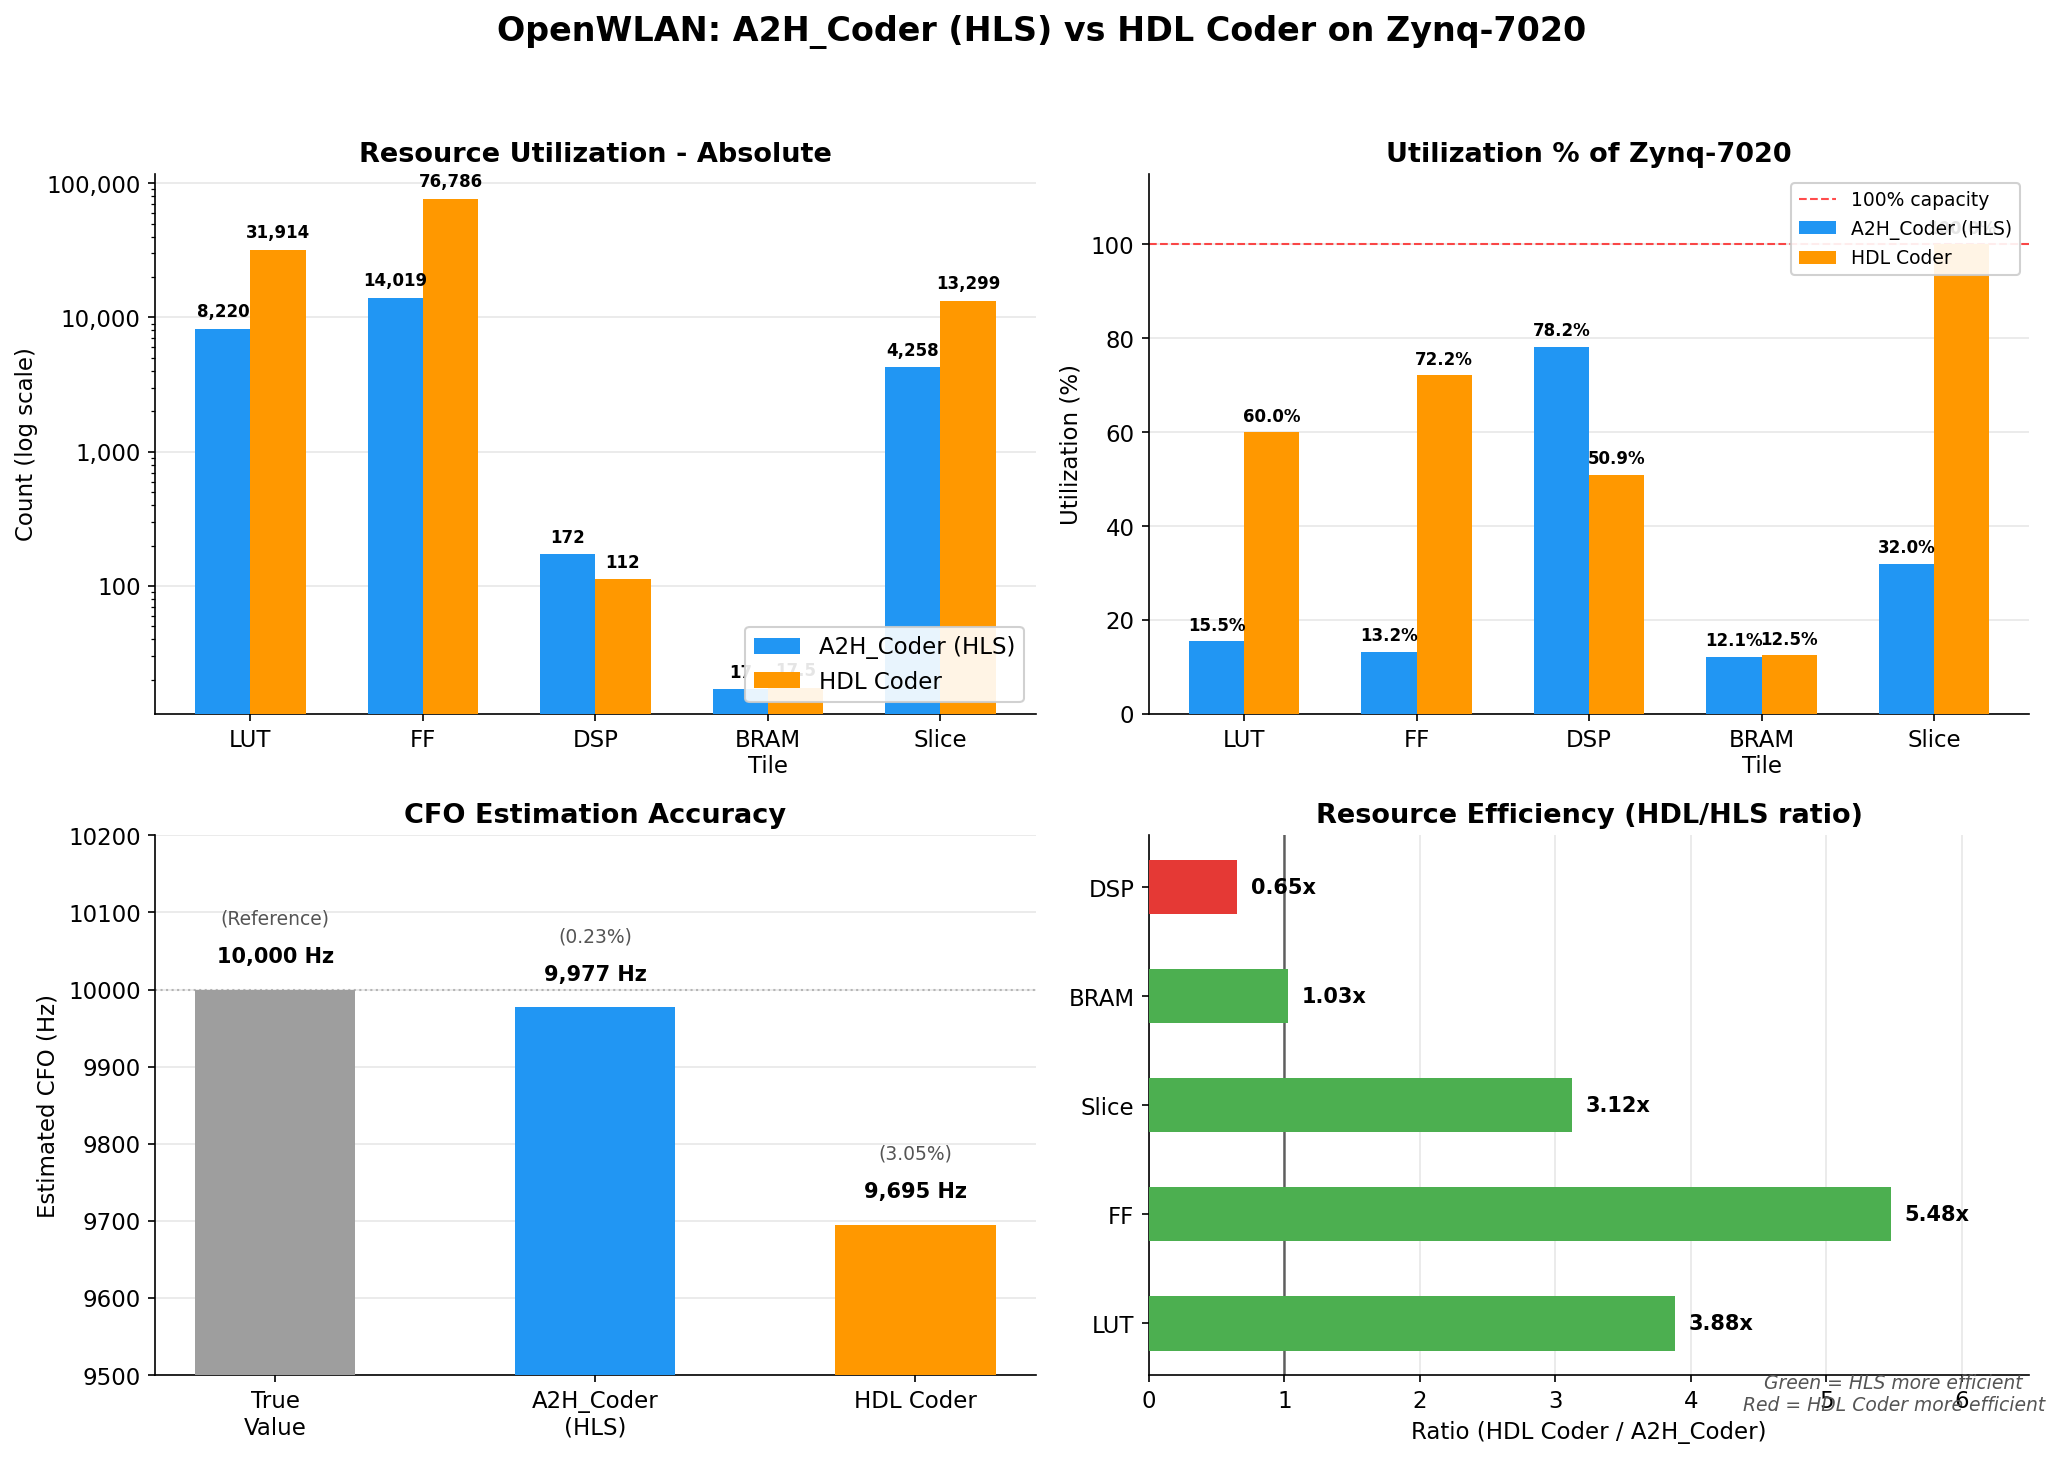
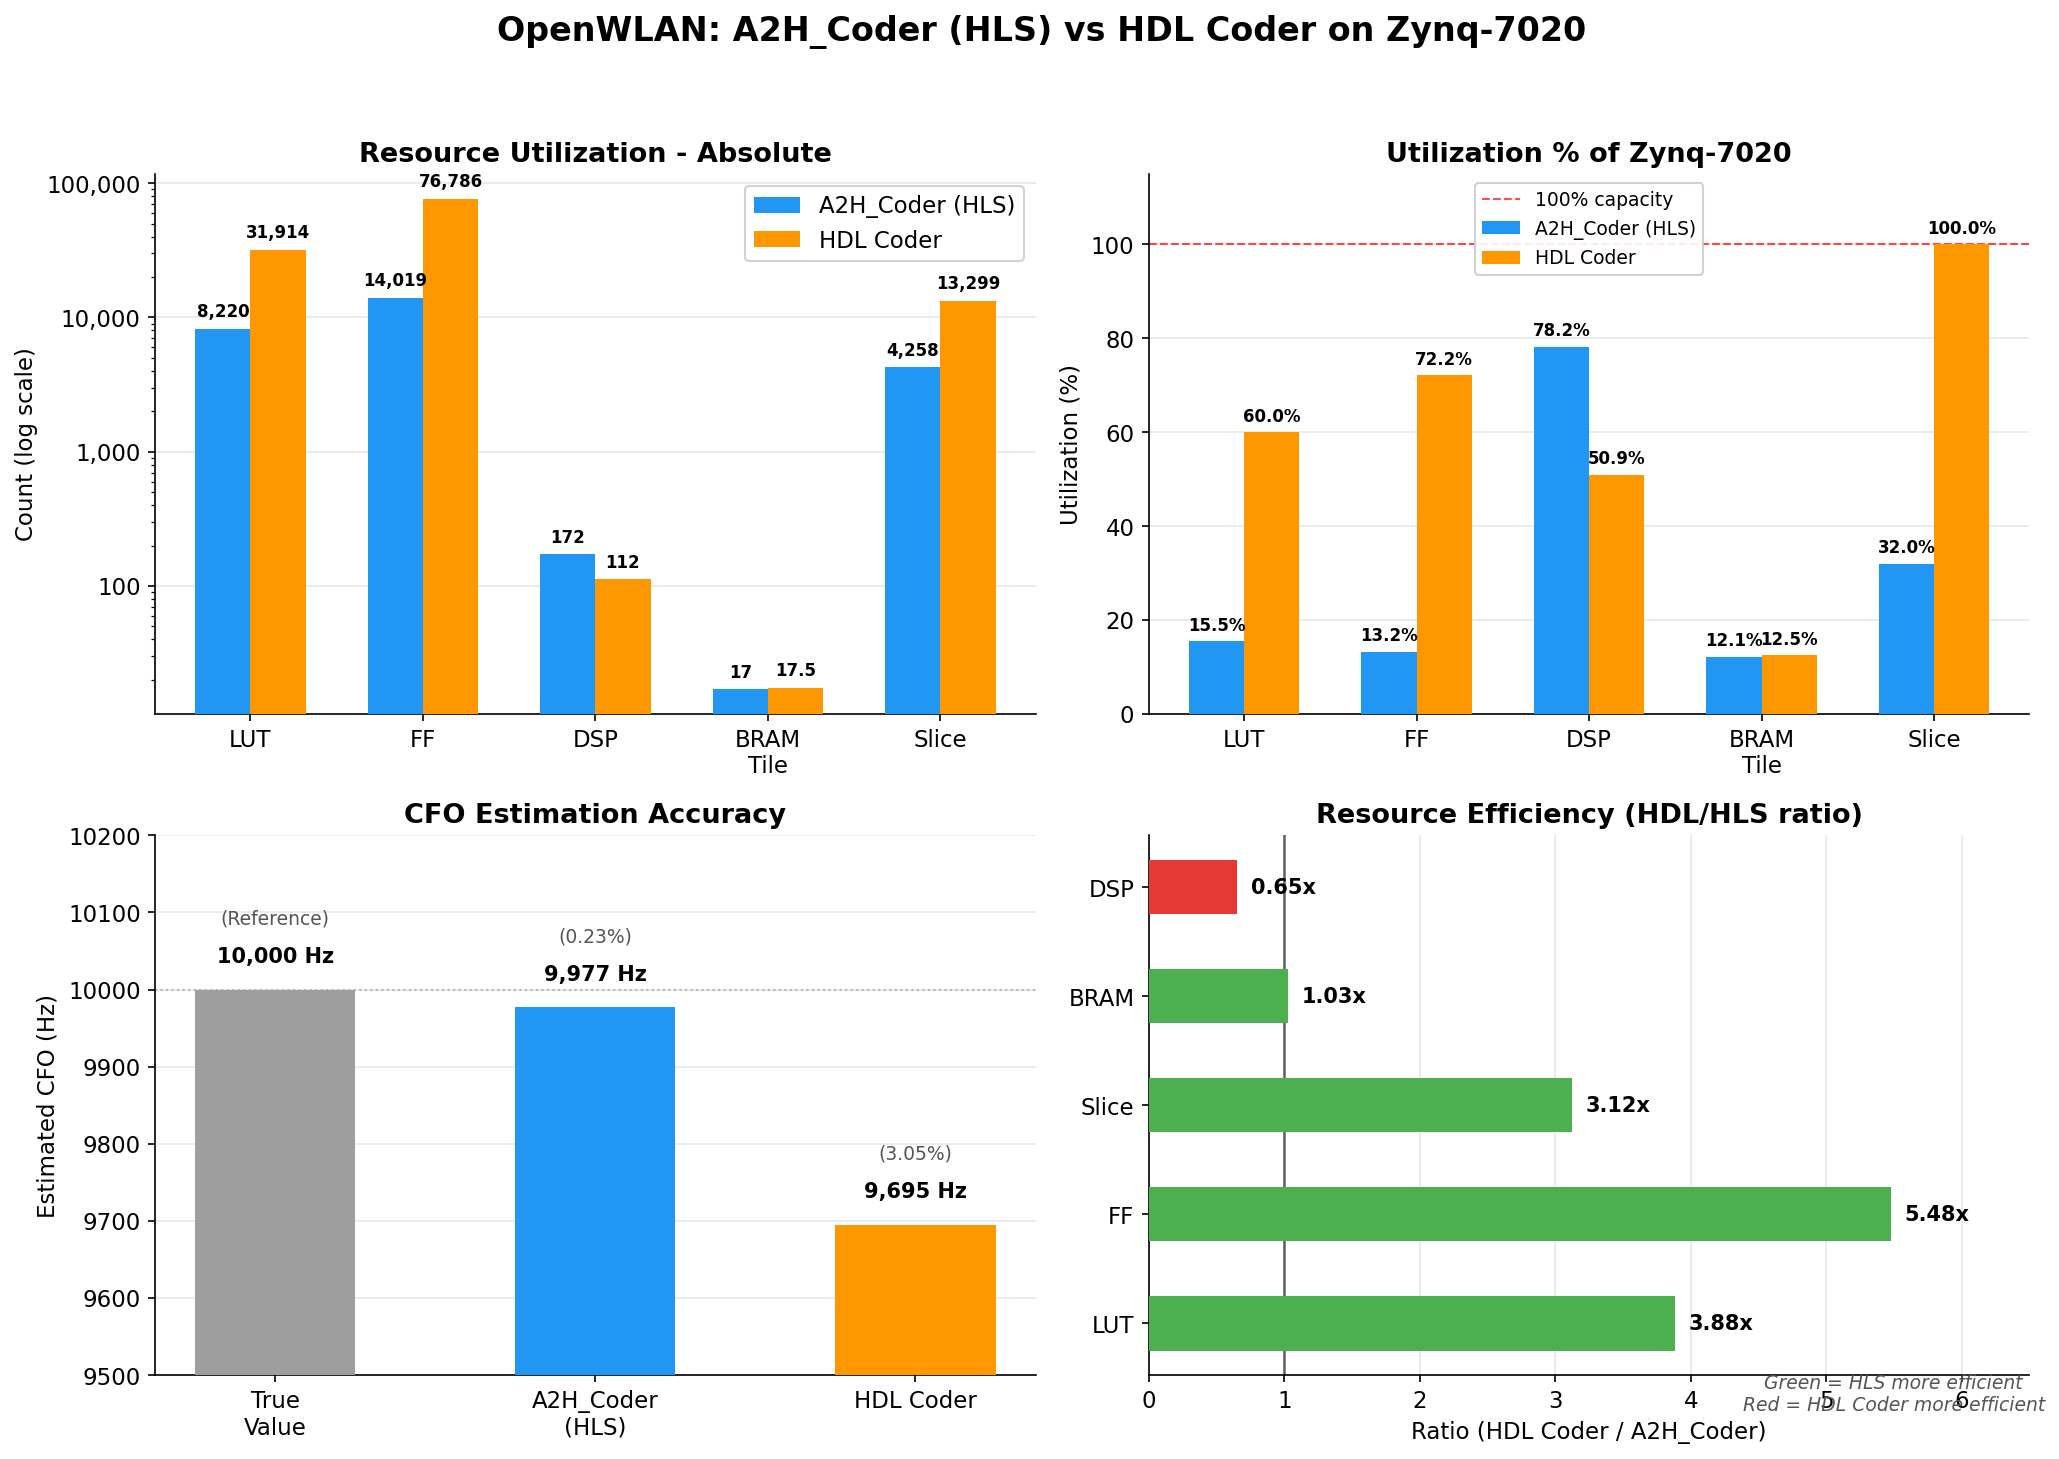
Move legend positions: upper-right for panel 1, upper-center for panel 2

diff --git a/Doc/generate_comparison_figure.py b/Doc/generate_comparison_figure.py
@@ -78,7 +78,7 @@ ax1.set_ylabel("Count (log scale)")
 ax1.set_title("Resource Utilization - Absolute")
 ax1.set_xticks(x)
 ax1.set_xticklabels(resources)
-ax1.legend(loc="lower right", framealpha=0.9)
+ax1.legend(loc="upper right", framealpha=0.9)
 ax1.yaxis.set_major_formatter(ticker.FuncFormatter(lambda v, _: f"{v:,.0f}"))
 ax1.grid(axis="y", alpha=0.3, zorder=0)
 
@@ -110,7 +110,7 @@ ax2.set_title("Utilization % of Zynq-7020")
 ax2.set_xticks(x)
 ax2.set_xticklabels(resources)
 ax2.set_ylim(0, 115)
-ax2.legend(loc="upper right", framealpha=0.9, fontsize=9)
+ax2.legend(loc="upper center", framealpha=0.9, fontsize=9)
 ax2.grid(axis="y", alpha=0.3, zorder=0)
 
 # Value labels
